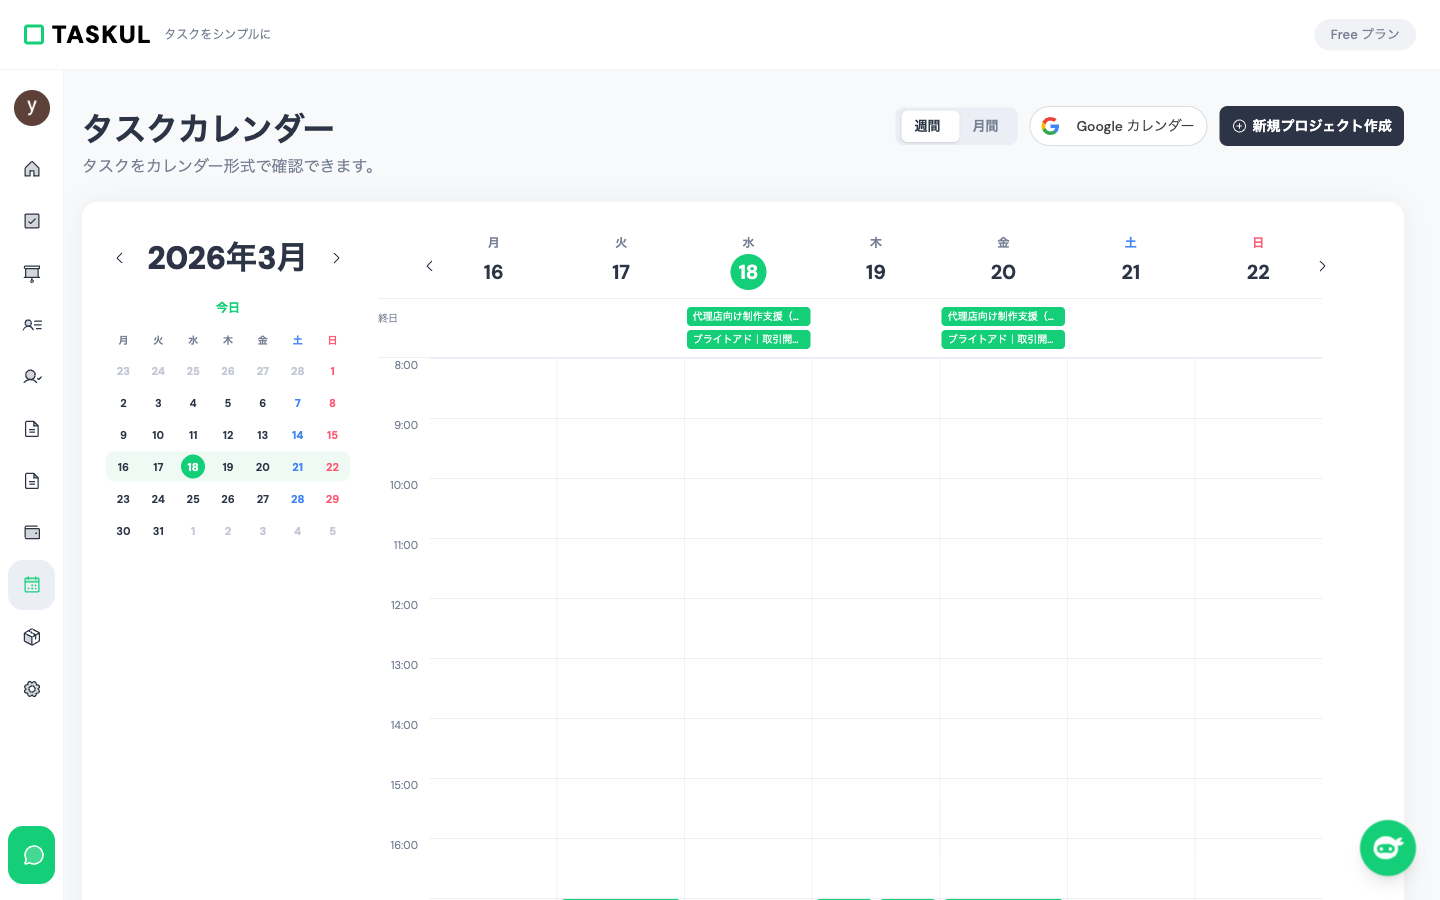
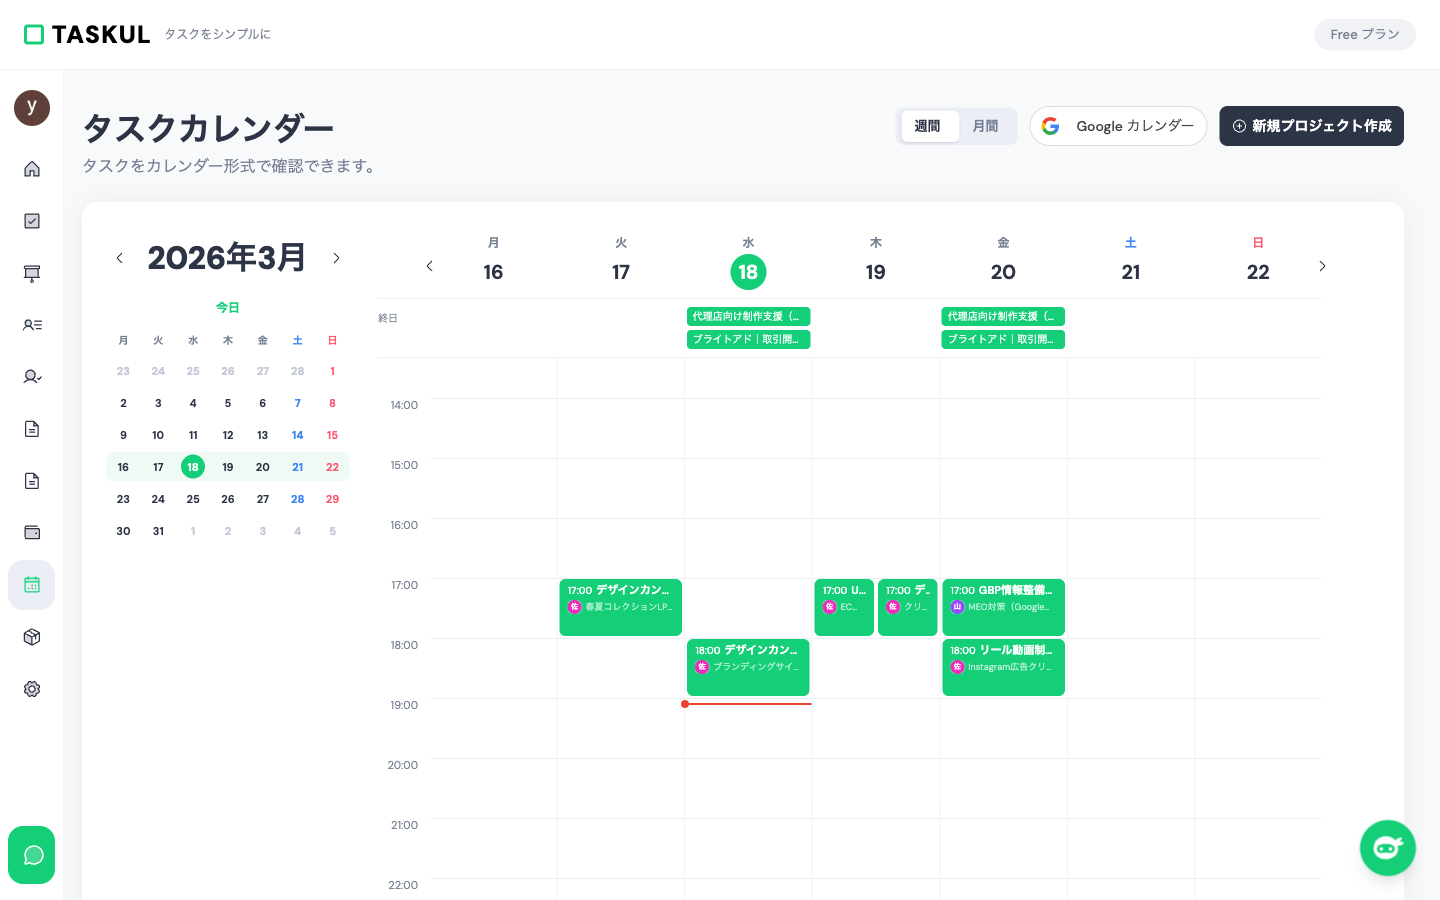
fix: カレンダースクショ撮り直し + 商談ログスクショ追加 + All Viewsスクロール修正
- カレンダー：タスクが表示される時間帯にスクロールしたスクショに差し替え
- 商談ログ：クライアント詳細の営業・商談ログ画面のスクショを追加
- All Views：縦スクロールがギャラリーで止まる問題をJS修正
- 重複していた</body></html>タグを修正

Changed region(s): [[0.375, 0.6222, 0.75, 0.7778], [0.5625, 0.9956, 0.75, 1.0], [0.375, 0.9956, 0.4688, 1.0]]

diff --git a/index.html b/index.html
@@ -193,7 +193,7 @@ a.nav-cta{font-size:.85rem;font-weight:700;color:#fff !important;background:#15c
 .expand-content .headline-desc{color:rgba(255,255,255,.5);margin:0 auto 48px}
 
 /* ===== GALLERY GRID ===== */
-.gallery-scroll{display:flex;gap:24px;margin-top:60px;overflow-x:auto;scroll-snap-type:x mandatory;-webkit-overflow-scrolling:touch;padding:0 max(24px,calc((100vw - 1200px)/2)) 20px;scrollbar-width:none}
+.gallery-scroll{display:flex;gap:24px;margin-top:60px;overflow-x:auto;scroll-snap-type:x mandatory;-webkit-overflow-scrolling:touch;padding:0 max(24px,calc((100vw - 1200px)/2)) 20px;scrollbar-width:none;overscroll-behavior-x:contain}
 .gallery-scroll::-webkit-scrollbar{display:none}
 .gallery-card{position:relative;border-radius:20px;overflow:hidden;background:#f5f5f7;flex-shrink:0;width:min(480px,80vw);aspect-ratio:16/10;scroll-snap-align:center}
 .section-dark .gallery-card{background:#1d1d1f}
@@ -1213,9 +1213,16 @@ if (expandBg) {
 }
 // Re-observe new anim elements added dynamically
 document.querySelectorAll('.anim:not(.vis), .anim-scale:not(.vis)').forEach(el => io.observe(el));
+
+// Gallery scroll: allow vertical page scroll when mouse is over gallery
+document.querySelectorAll('.gallery-scroll').forEach(g => {
+  g.addEventListener('wheel', e => {
+    if (Math.abs(e.deltaY) > Math.abs(e.deltaX)) return; // vertical scroll → let page handle it
+    e.preventDefault();
+    g.scrollLeft += e.deltaX || e.deltaY;
+  }, { passive: false });
+});
 </script>
 
-</body>
-</html>
 </body>
 </html>
